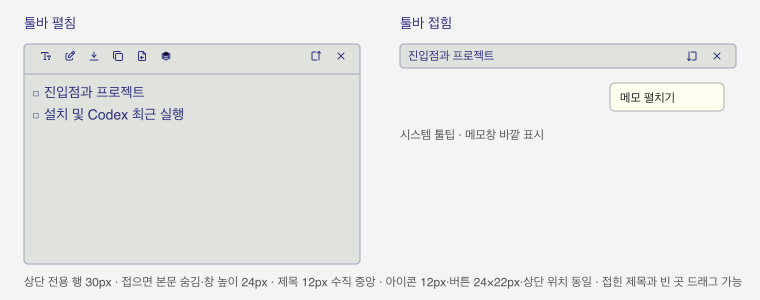
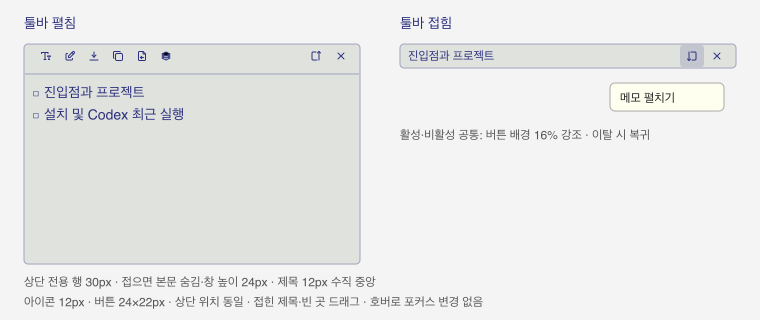
접힌 툴바의 비활성 창 호버 배경 강조 적용
포커스 제한을 제거하고 macOS native 접촉 좌표로 DOM 버튼 강조를 보완한다. 창 활성화·첫 클릭·드래그 처리와 아이콘 배치를 유지한다.

검증: UI 183개·Rust 213개, Clippy·Rustfmt·개발 빌드, 3종 화면 Chromium 배경/좌표 검사 통과. 실제 macOS GUI와 Intel·Windows 실행은 미검증이며 검증 문서에 한계를 기록했다.

Changed region(s): [[0.5145, 0.06, 0.9684, 0.48], [0.0303, 0.03, 0.4842, 0.42], [0.0303, 0.81, 0.9987, 0.96]]

diff --git a/ui/toolbar.js b/ui/toolbar.js
@@ -82,16 +82,22 @@ new MutationObserver(syncTooltips).observe(controls, {
 });
 syncTooltips();
 
-// Track actual pointer entry as well as CSS hover in the focused WebView.
+// Track pointer entry regardless of keyboard focus.
 // Never activate the window to produce hover feedback; first-click policy
 // continues to belong to the native window.
 const toolbarButtons = [...controls.querySelectorAll('button')];
 for (const button of toolbarButtons) {
   button.addEventListener('pointerenter', () => {
-    if (document.hasFocus() && !button.disabled) button.setAttribute('data-pointer-over', '');
+    if (!button.disabled) button.setAttribute('data-pointer-over', '');
   });
   button.addEventListener('pointerleave', () => button.removeAttribute('data-pointer-over'));
 }
-window.addEventListener('blur', () => {
-  for (const button of toolbarButtons) button.removeAttribute('data-pointer-over');
+// macOS also samples the native pointer when the WebView is inactive. Hit-test
+// the rendered DOM so hidden/paged buttons and resize/drag regions stay intact.
+window.__TAURI__.event.listen('toolbar-pointer', ({ payload }) => {
+  const target = payload ? document.elementFromPoint(payload.x, payload.y)?.closest('button') : null;
+  for (const button of toolbarButtons) {
+    if (button === target && !button.disabled) button.setAttribute('data-pointer-over', '');
+    else button.removeAttribute('data-pointer-over');
+  }
 });

diff --git a/src-tauri/src/toolbar_pointer.rs b/src-tauri/src/toolbar_pointer.rs
@@ -1,0 +1,74 @@
+//! Visual hover for inactive WKWebViews, using the existing contact monitor.
+use std::{collections::BTreeMap, sync::Mutex};
+use tauri::{Emitter, Manager, WebviewWindow};
+
+type Point = Option<(f64, f64)>;
+#[derive(Default)]
+pub struct Pointers(Mutex<BTreeMap<String, Point>>);
+
+// AppKit screen coordinates and content rect are both logical points, even
+// across monitors with different backing scales. DOM y runs down from the top.
+fn local_point((cx, cy): (f64, f64), (x, y, w, h): (f64, f64, f64, f64)) -> Point {
+    let point = (cx - x, y + h - cy);
+    (point.0 >= 0.0 && point.1 >= 0.0 && point.0 < w && point.1 < h).then_some(point)
+}
+
+pub fn sync(window: &WebviewWindow) -> Result<(), String> {
+    let point = if window.is_visible().map_err(|e| e.to_string())? {
+        let ptr = window.ns_window().map_err(|e| e.to_string())?;
+        // SAFETY: the native contact/opacity callbacks run on the main thread;
+        // Tauri owns this window throughout the synchronous borrow.
+        let native = unsafe { &*(ptr as *const objc2_app_kit::NSWindow) };
+        let rect = native.contentRectForFrameRect(native.frame());
+        let cursor = objc2_app_kit::NSEvent::mouseLocation();
+        local_point(
+            (cursor.x, cursor.y),
+            (
+                rect.origin.x,
+                rect.origin.y,
+                rect.size.width,
+                rect.size.height,
+            ),
+        )
+    } else {
+        None
+    };
+    let changed = window
+        .state::<Pointers>()
+        .0
+        .lock()
+        .map_err(|e| e.to_string())?
+        .insert(window.label().into(), point)
+        != Some(point);
+    if changed {
+        // Address only this trusted toolbar; never broadcast pointer locations.
+        window
+            .emit_to(
+                window.label(),
+                "toolbar-pointer",
+                point.map(|(x, y)| serde_json::json!({ "x": x, "y": y })),
+            )
+            .map_err(|e| e.to_string())?;
+    }
+    Ok(())
+}
+
+#[cfg(test)]
+mod tests {
+    use super::*;
+
+    #[test]
+    fn appkit_points_keep_fractional_positions_and_negative_screen_origins() {
+        assert_eq!(
+            local_point((-401.5, -212.25), (-800.0, -224.0, 400.0, 24.0)),
+            Some((398.5, 12.25))
+        );
+        assert_eq!(
+            local_point((0.0, 24.0), (0.0, 0.0, 400.0, 24.0)),
+            Some((0.0, 0.0))
+        );
+        for cursor in [(-1.0, 12.0), (400.0, 12.0), (10.0, 0.0), (10.0, 25.0)] {
+            assert_eq!(local_point(cursor, (0.0, 0.0, 400.0, 24.0)), None);
+        }
+    }
+}

diff --git a/src-tauri/src/main.rs b/src-tauri/src/main.rs
@@ -26,6 +26,8 @@ mod stash_input;
 mod storage;
 mod telemetry;
 mod terminal;
+#[cfg(target_os = "macos")]
+mod toolbar_pointer;
 mod tray;
 mod warp;
 mod web;
@@ -135,6 +137,8 @@ fn sync_pointer(window: &tauri::WebviewWindow) -> Result<bool, String> {
             .emit_to(window.label(), "note-pointer-over", hovered)
             .map_err(|e| e.to_string())?;
     }
+    #[cfg(target_os = "macos")]
+    toolbar_pointer::sync(window)?;
     Ok(hovered)
 }
 // Native alpha blends the entire window, including its background and controls.
@@ -527,7 +531,9 @@ fn serve(endpoint: ipc::Endpoint, initial_open: bool) -> Result<(), String> {
     };
     let builder = tauri::Builder::default();
     #[cfg(target_os = "macos")]
-    let builder = builder.activate_ignoring_other_apps(false);
+    let builder = builder
+        .activate_ignoring_other_apps(false)
+        .manage(toolbar_pointer::Pointers::default());
     let app = builder
         .plugin(tauri_plugin_clipboard_manager::init())
         .plugin(tauri_plugin_dialog::init())

diff --git a/docs/verification/issue143-inactive-hover.md b/docs/verification/issue143-inactive-hover.md
@@ -1,0 +1,42 @@
+# #143 비활성 창의 접힌 툴바 호버
+
+## 기준과 구현
+
+- [디자인 시스템](../design-system.md)의 최신 기준에 따라 활성/비활성 × 펼침/접힘 모두 버튼 배경을 전경색 16% 혼합으로 강조한다. 포커스 제한과 blur 시 강조 제거를 없앴다.
+- 비활성 WKWebView가 DOM hover 이벤트를 전달하지 않는 경우를 보완하기 위해 기존 macOS 접촉 감지 → `sync_pointer` 경로에서 창별 `toolbar-pointer` 이벤트를 전달한다. AppKit의 논리 좌표와 콘텐츠 사각형으로 DOM 좌표를 계산하므로 주 모니터와 창의 backing scale을 섞지 않는다. 좌표가 바뀌었을 때만 해당 창에 전달하고 창 밖/숨김은 null이다. 좌표를 디스크에 저장하거나 외부 전송하지 않는다.
+- 실제 DOM hit-test로 SVG 자식, 제목/드래그 영역, 숨김 도구와 비활성 버튼을 구분한다. native 활성화·입력 합성·첫 클릭 설정을 추가하지 않았다. 클릭·드래그 핸들러와 버튼/아이콘 크기·위치는 유지한다.
+- [SVG](../design/toolbar-reserved-space.svg)와 [PNG](../design/toolbar-reserved-space.png)는 접힌 펼치기 버튼의 강조와 비활성 공통 정책을 표시한다. 설명용 시안이며 실제 앱 캡처가 아니다.
+
+## 실행 출처
+
+- 작업 루트: `/Users/egoinglee/.codex/worktrees/438f/agent-gibbon`
+- 브랜치: `codex/143-inactive-collapsed-hover` (시작 기준 origin/main `eb5df329215e828a81028df5e4574465443adcf3`)
+- `npm run dev:info`: root는 위 경로, instance `dev-46314bac3eb60389ce2c6b0f`, binary `/Users/egoinglee/.codex/worktrees/438f/agent-gibbon/src-tauri/target/debug/agent-gibbon`
+- Node v26.0.0, rustc 1.91.1, macOS ARM64.
+- 처음 실행 중이던 이전 개발 PID 68509는 작업 중 이미 종료된 상태임을 ps로 확인했다. 이번 작업에서 그 프로세스를 종료하지 않았다. 최신 코드의 `npm run dev:build` 성공 후 개발 CLI로 새 프로세스를 시작했다.
+- 새 PID 62636의 `--serve` 실행 파일 절대 경로를 ps로 확인했다. 검증 전용 메모 `verify-143-438f`, 본문 고유 표식 `호버 검증 143-438f`와 CLI inspect의 `ok:true`·instance 일치를 확인했다.
+- GUI 접근은 `orca computer list-windows --app pid:62636 --json`이 `windows:[]`를 반환했다. 이전 PID도 빈 목록이었고 CUA의 실행 파일 경로 선택은 `Invalid app`이었다. 창 제목과 PID를 연결하지 못했으므로 GUI 조작·전체 화면 캡처는 수행하지 않았다. 다른 워크트리나 설치 앱으로 대체하지 않았다.
+
+## 실행 결과
+
+| 검사 | 결과 |
+| --- | --- |
+| `npm run test:ui` | 183개 통과. DOM pointer 진입·이탈, 포커스 상실, native 좌표 이벤트의 활성/비활성 × 펼침/접힘, 버튼 간 전환·빈 영역·disabled·창 이탈 포함 |
+| `cargo test --manifest-path src-tauri/Cargo.toml` | 213개 통과. AppKit 좌표의 소수점·음수 화면 원점·접힌 24px 경계 포함 |
+| `npm run check` | Clippy 경고 오류 처리 통과 |
+| `cargo fmt --manifest-path src-tauri/Cargo.toml -- --check` | 통과 |
+| `npm run dev:build` | 통과. 최신 UI를 포함해 다시 빌드한 뒤 위 PID로 실행 |
+| `git diff --check` | 통과 |
+| SVG → PNG | `rsvg-convert` 렌더·육안 확인. 설명이 잘리지 않도록 시안 높이 조정 |
+| 개발 CLI 상태 보존 | 전용 메모 update 전후 instance·focused(false)·visible·position·size·always_on_top·folded 일치. 종료 시 검증 메모만 close 후 visible:false 확인 |
+
+Chromium은 `/tmp/gibbon-toolbar-browser/verify143.cjs`에서 현재 UI 자산을 route하고 Tauri 이벤트를 stub으로 전달해 검사했다. 메모·터미널·웹 창 각각에서 펼침 400×260과 접힘 400×24의 토글/닫기 슬롯 24×22, SVG 12×12, y=1 및 두 상태의 동일한 좌표를 확인했다. focus true/false stub 각각에서 native 좌표 → DOM hit-test → 배경 강조 → null 이탈 시 원래 배경 복귀를 확인했다. 물리 포인터와 실제 비활성 WebView의 실행 증거로 사용하지 않는다.
+
+캡처(임시 경로): `/tmp/gibbon-toolbar-browser/143-index.html.png`, `143-terminal.html.png`, `143-web.html.png`.
+
+## 한계와 수동 확인
+
+- 실제 macOS 물리 포인터의 비활성 호버 진입·이탈, 최초 한 번 클릭의 펼치기/닫기, 접힌 창 드래그 및 다중 모니터 GUI는 미검증이다. 현재 도구에서 개발 창을 특정할 수 없었기 때문이다. CLI의 포커스 상태 보존은 이 GUI 검증을 대신하지 않는다.
+- Intel/Windows의 실행·GUI 및 전체 플랫폼 설치 파일 빌드는 실행하지 않았다. 이번 요청은 일반 개발·병합 범위이며 별도 전체 플랫폼 검사나 배포 요청이 없다. 버전·태그·릴리스는 변경하지 않는다.
+- 수동 확인: 펼친 메모의 버튼 hover → 접기 → 다른 앱 활성화 → 펼치기와 닫기에 차례로 포인터를 올리고 이탈 → 현재 앱 포커스 보존과 배경 복귀 → 한 번 클릭 펼치기 → 접힌 제목/빈 공간 드래그 순서로 확인한다.
+- 코드/로컬 회귀 검증 Conf 3, 브라우저 레이아웃 검사 별도 통과, Risk Low(시각적 강조의 국소 변경). 검증 코드 SHA·PR·병합 결과는 이슈 #143과 PR에 기록한다.

diff --git a/docs/design-system.md b/docs/design-system.md
@@ -1,9 +1,9 @@
-## 접힘 드래그·버튼 정렬·롤오버 — #141
+## 접힘 드래그·버튼 정렬·롤오버 — #141 · #143
 
 - 접힌 제목과 툴바 빈 공간도 native 드래그로 이동한다. 버튼 클릭과 기존 본문 클릭 펼침은 유지한다.
 - 펼침·접힘 모두 아이콘 12px, 버튼 슬롯 폭 24px·높이 22px, 상단 1px 위치를 사용한다. 펼침 전용 행 30px의 아래 여유 공간을 유지하고 오른쪽 토글·닫기 버튼 위치를 맞춘다.
-- 포커스가 있는 창에서 포인터 진입을 추적해 전경색 16% 혼합 배경으로 버튼을 강조한다. 비활성 창에 포커스를 강제로 부여하지 않으며 native 첫 클릭 정책은 유지한다. 키보드 포커스 표시는 별도로 유지한다.
-- [시안 SVG](design/toolbar-reserved-space.svg) · [PNG](design/toolbar-reserved-space.png). 구현·실행 범위는 [검증 기록](verification/issue141-toolbar.md)을 따른다.
+- 펼침·접힘과 창의 활성 여부에 관계없이 포인터가 올라간 버튼을 전경색 16% 혼합 배경으로 강조하고 이탈하면 복귀한다. 포커스가 사라져도 포인터가 남아 있으면 강조를 유지한다. macOS에서는 기존 native 접촉 감지의 창 내부 좌표로 실제 DOM 버튼을 hit-test해 비활성 WebView를 보완한다. 호버로 창을 활성화하거나 포커스를 부여하지 않으며 native 첫 클릭·드래그 정책은 유지한다. 키보드 포커스 표시는 별도로 유지한다.
+- [시안 SVG](design/toolbar-reserved-space.svg) · [PNG](design/toolbar-reserved-space.png). 기존 #141의 검증과 이번 변경의 [#143 구현·검증 기록](verification/issue143-inactive-hover.md)을 구분한다.
 
 # Agent Gibbon Design System
 
